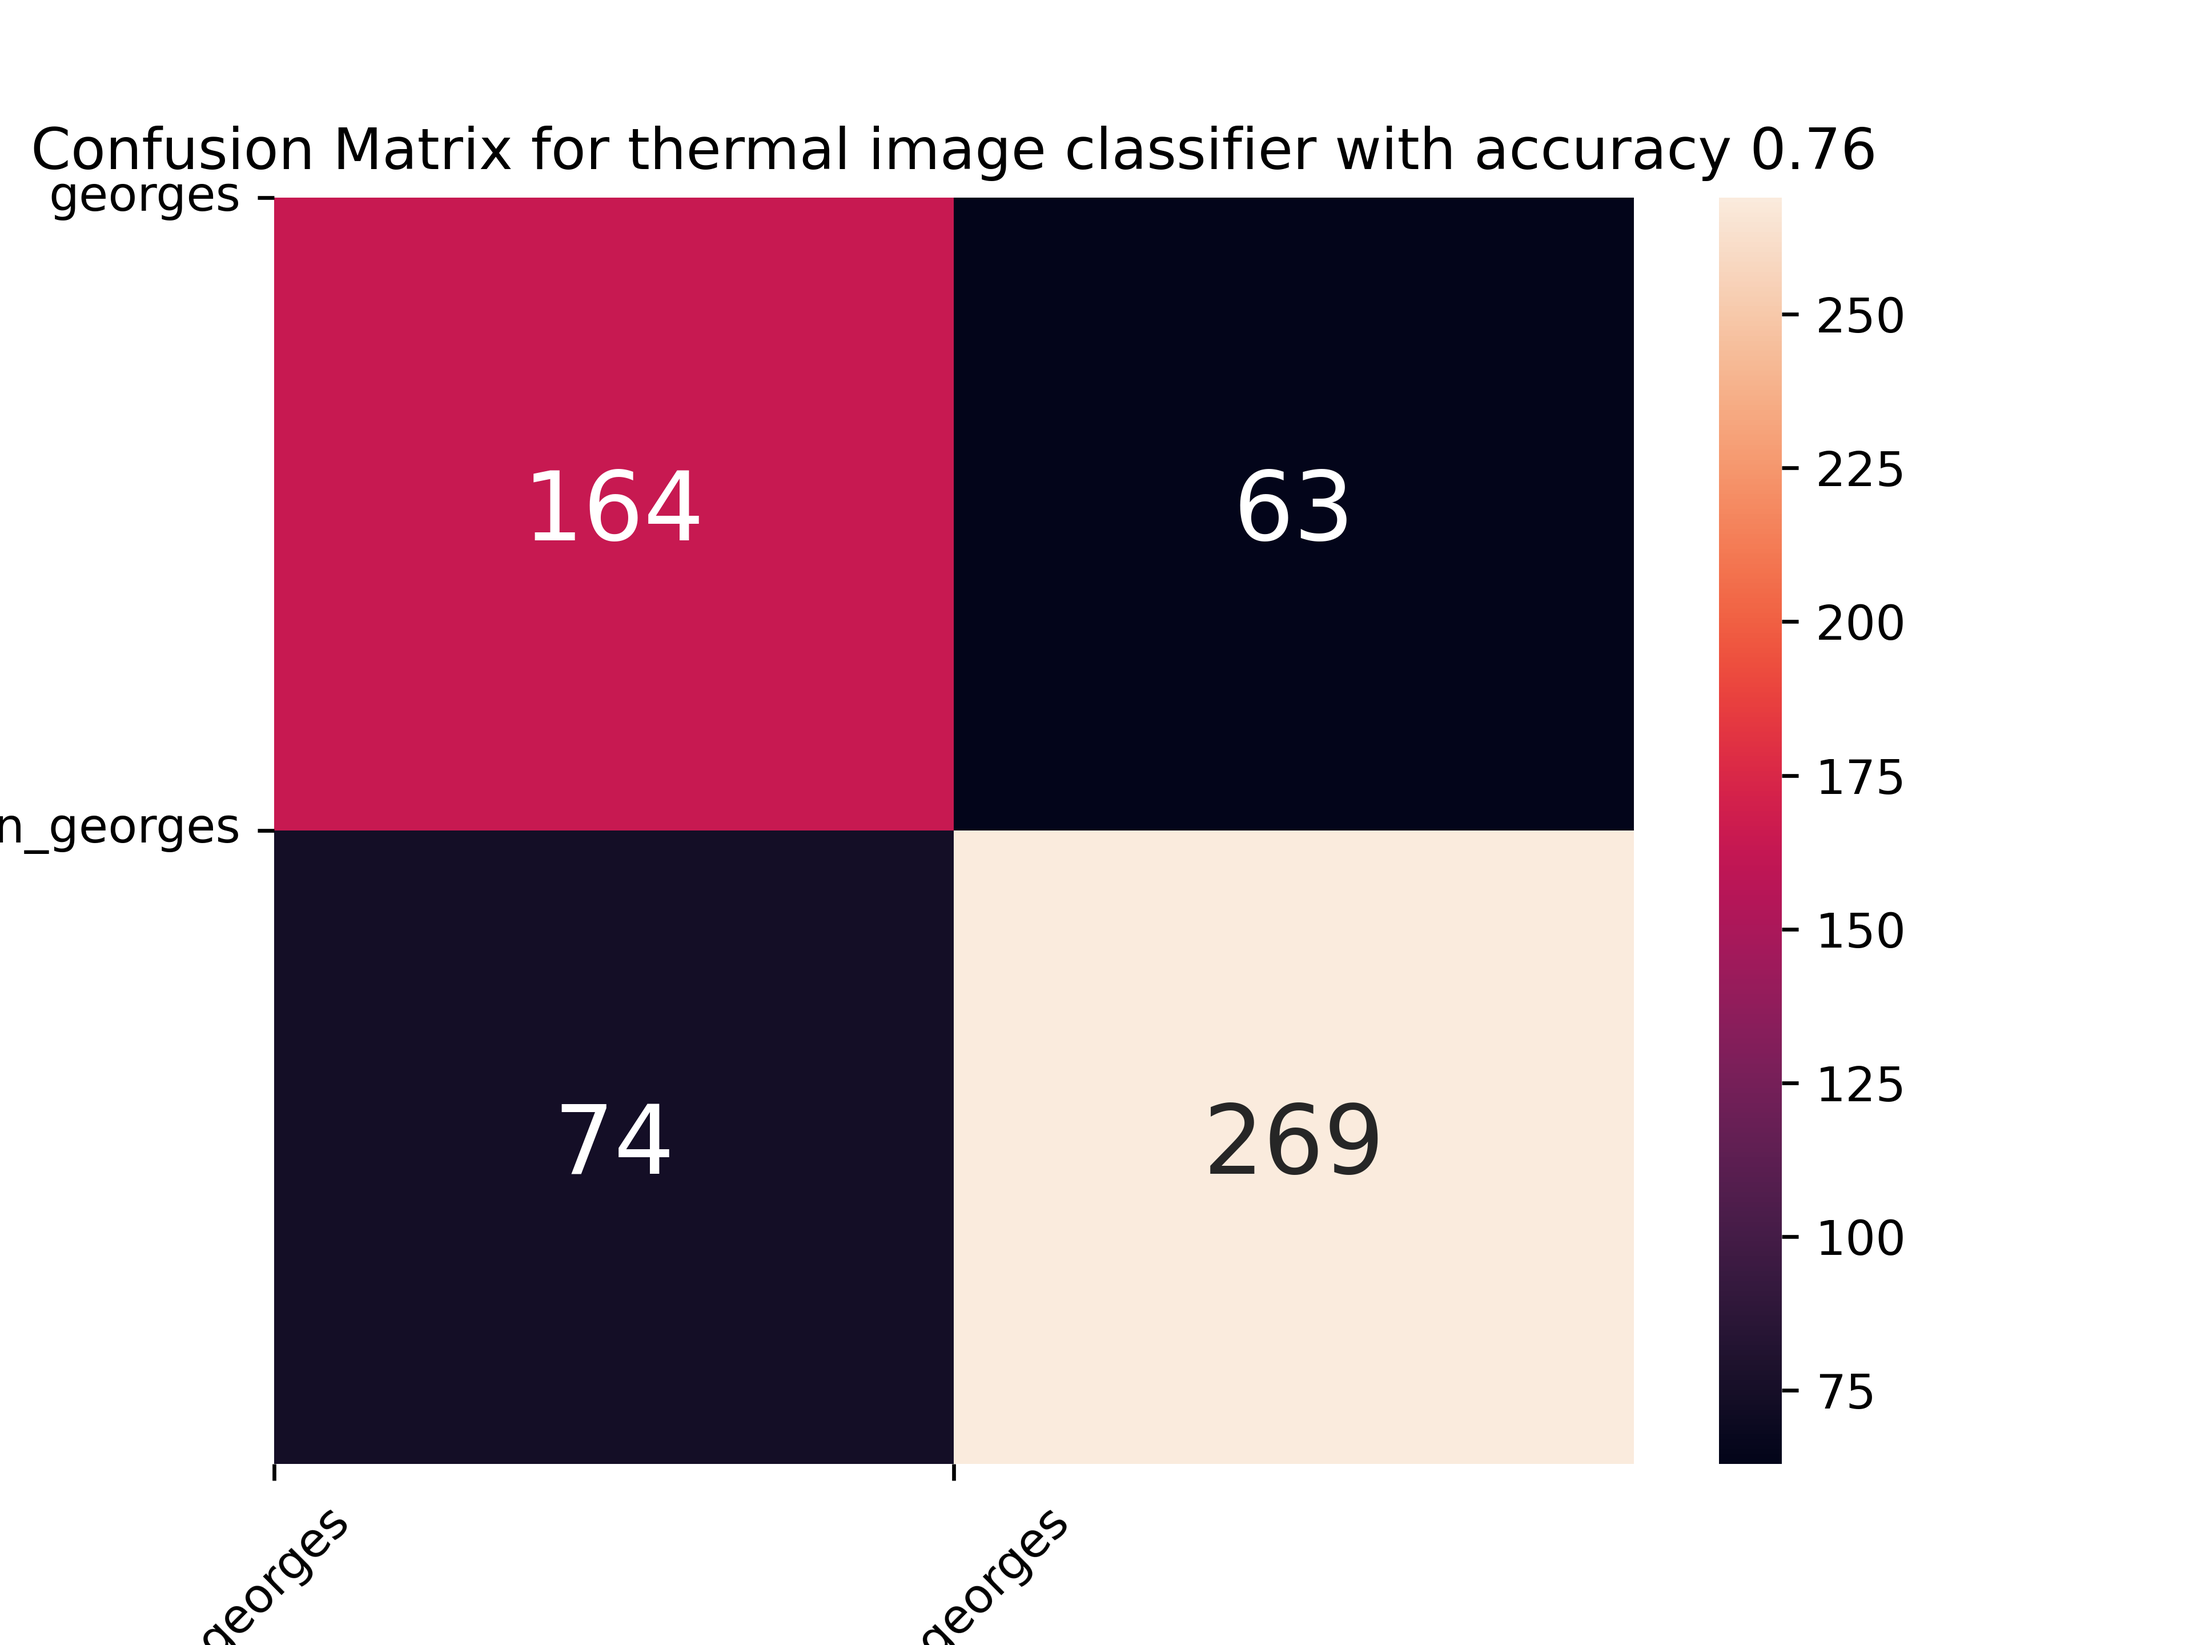
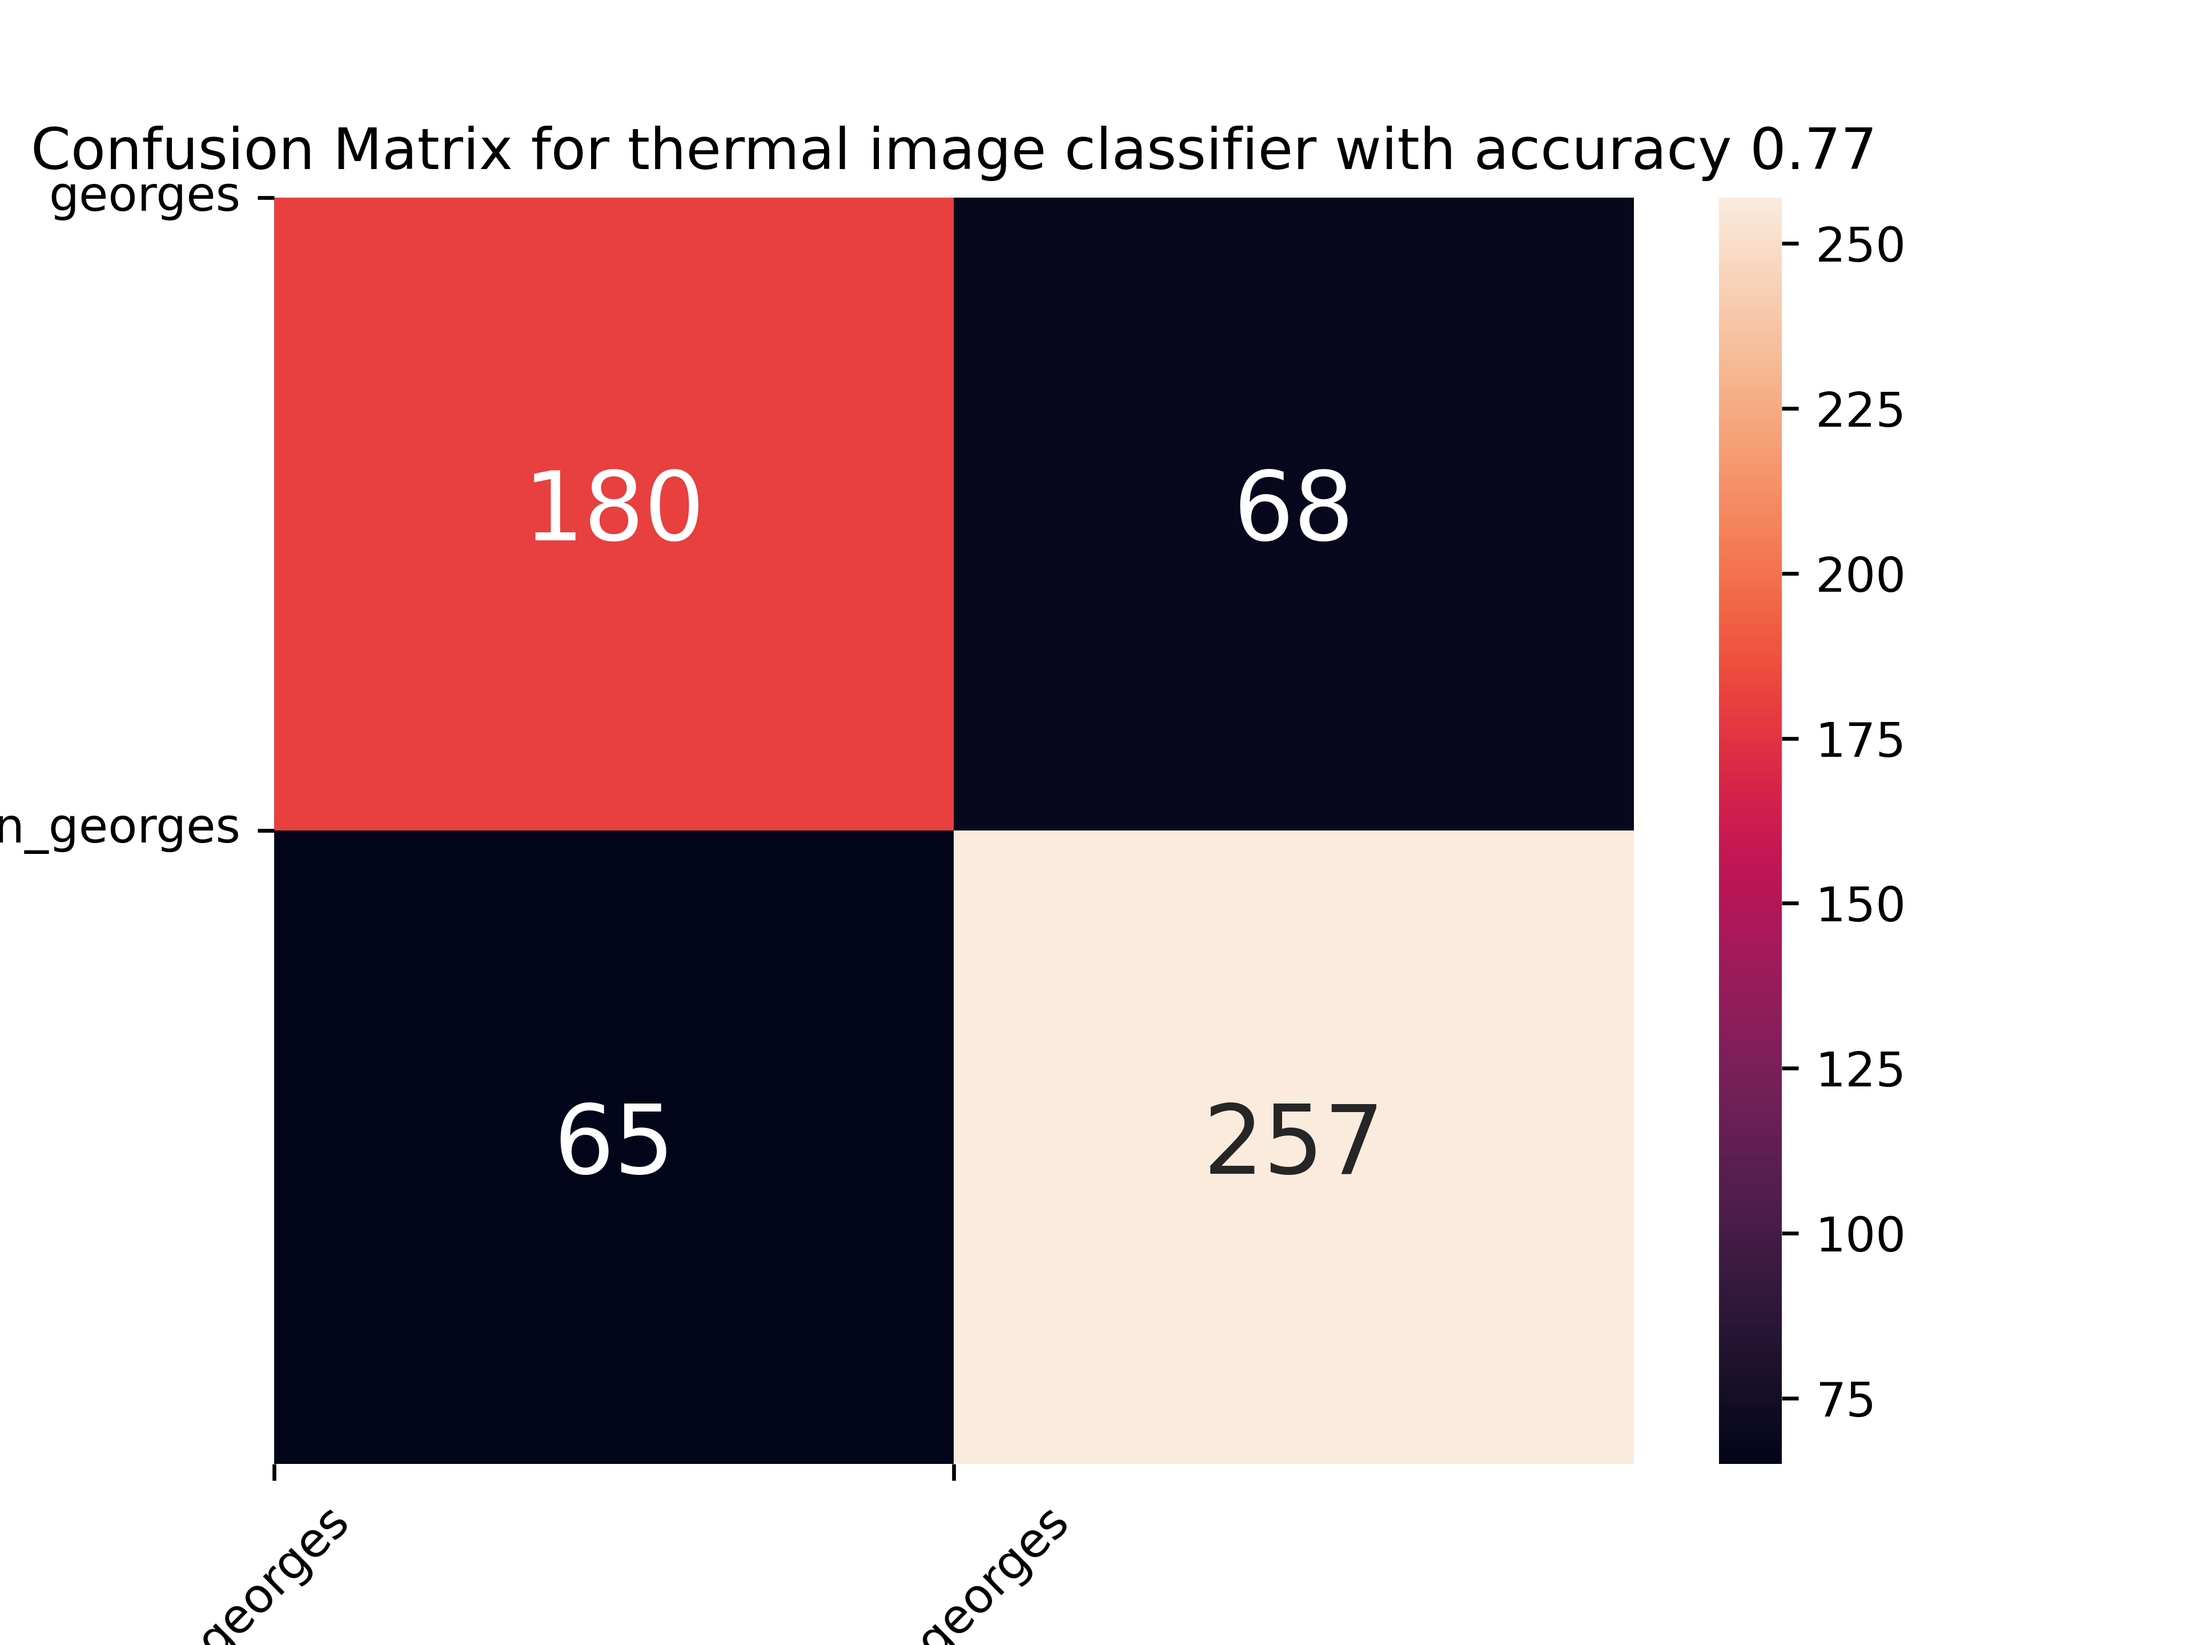
updated

diff --git a/georges-image-classifier.py b/georges-image-classifier.py
@@ -37,9 +37,10 @@ model = tf.keras.models.Sequential([
     tf.keras.layers.MaxPooling2D(2, 2),
     tf.keras.layers.Conv2D(64, (3, 3), activation='relu'),
     tf.keras.layers.MaxPooling2D(2, 2),
-    tf.keras.layers.Dropout(0.25),
+    tf.keras.layers.Dropout(0.2),
     tf.keras.layers.Flatten(),
     tf.keras.layers.Dense(512, activation='relu'),
+    tf.keras.layers.Dropout(0.2),
     tf.keras.layers.Dense(classes, activation='softmax')
 ])
 
@@ -49,11 +50,11 @@ model.compile(optimizer=tf.keras.optimizers.Adam(learning_rate=0.00001), loss=tf
               metrics=['accuracy'])
 
 # this controls the batch size
-BATCH_SIZE = 10
+BATCH_SIZE = 15
 train_dataset = train_dataset.batch(BATCH_SIZE, drop_remainder=False)
 validation_dataset = validation_dataset.batch(BATCH_SIZE, drop_remainder=False)
 
-history = model.fit(train_dataset, epochs=25, validation_data=validation_dataset)
+history = model.fit(train_dataset, epochs=40, validation_data=validation_dataset)
 
 model.save("saved-model/george_test_task")
 
@@ -87,4 +88,5 @@ axs[1].set_xlabel('Epoch')
 axs[1].set_ylabel('Accuracy')
 axs[1].grid(True)
 axs[1].legend(loc='best')
+plt.savefig("images/training-metrics.png", dpi=600)
 plt.show()
